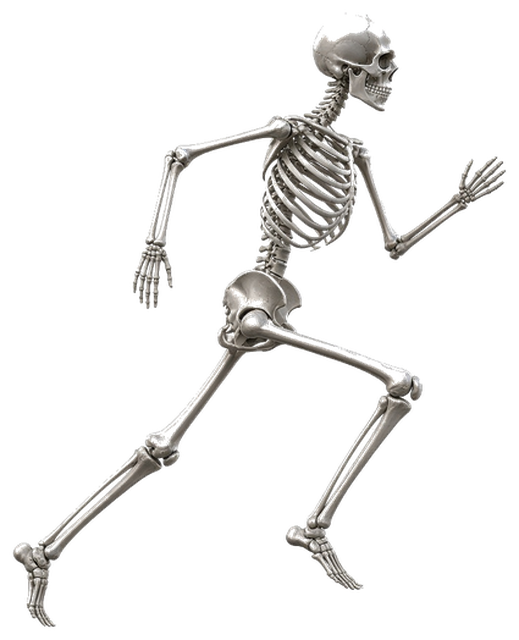
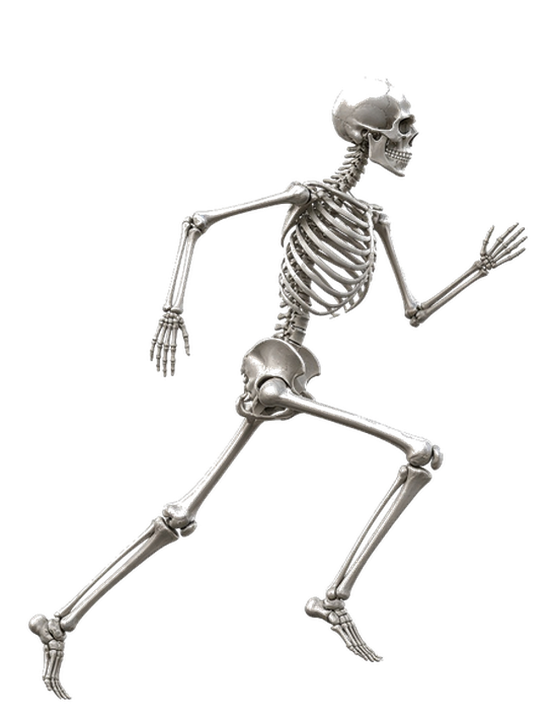
32.336: Leave headroom so the runner skull is not cropped.
The cranium stays inside the frame, above the stadium curve.

Changed region(s): [[0.0308, 0.0312, 0.9865, 1.0]]

diff --git a/frontend/public/index.html b/frontend/public/index.html
@@ -1,15 +1,15 @@
 <!DOCTYPE html>
 <html lang="en">
   <head>
-    <link rel="stylesheet" href="%PUBLIC_URL%/clinic_touch.css?v=32.335" />
-    <link rel="stylesheet" href="%PUBLIC_URL%/liquid_glass.css?v=32.335" />
+    <link rel="stylesheet" href="%PUBLIC_URL%/clinic_touch.css?v=32.336" />
+    <link rel="stylesheet" href="%PUBLIC_URL%/liquid_glass.css?v=32.336" />
     <meta charset="utf-8" />
     <link rel="icon" href="%PUBLIC_URL%/favicon.ico?v=32.86" sizes="any" />
     <link rel="icon" href="%PUBLIC_URL%/logo192.png?v=32.86" type="image/png" sizes="192x192" />
     <link rel="icon" href="%PUBLIC_URL%/favicon-32.png?v=32.86" type="image/png" sizes="32x32" />
     <meta name="viewport" content="width=device-width, initial-scale=1, viewport-fit=cover" />
     <meta http-equiv="Cache-Control" content="no-cache, no-store, must-revalidate" />
-    <meta name="nl-version" content="32.335" />
+    <meta name="nl-version" content="32.336" />
     <meta name="theme-color" content="#121820" media="(prefers-color-scheme: dark)" />
     <meta name="theme-color" content="#121820" />
     <style>html,body{margin:0;padding:0;background:#121820;color:#fff;color-scheme:dark;font-family:Inter,system-ui,sans-serif}#root{min-height:100vh}</style>
@@ -76,10 +76,10 @@
   <body>
     <noscript>You need to enable JavaScript to run this app.</noscript>
     <div id="root"><p style="padding:2rem;text-align:center;color:#fff9">Loading NeuroLab…</p></div>
-    <script src="%PUBLIC_URL%/pwa_ipad_sync.js?v=32.335"></script>
+    <script src="%PUBLIC_URL%/pwa_ipad_sync.js?v=32.336"></script>
     <script>
       (function () {
-        var href = "%PUBLIC_URL%/liquid_glass.css?v=32.335";
+        var href = "%PUBLIC_URL%/liquid_glass.css?v=32.336";
         function pin() {
           var el = document.getElementById("nl-liquid-glass-link");
           if (!el) {

diff --git a/frontend/src/labScrollGlass.test.js b/frontend/src/labScrollGlass.test.js
@@ -38,9 +38,9 @@ test("analysis stage capsule is muted glass and keeps the film-strip motion", ()
   expect(css).toMatch(/\.kin-analyze-stage__stepper/);
   expect(css).toMatch(/\.kin-analyze-stage__rail/);
   expect(css).toMatch(/\.kin-run__figure/);
-  expect(css).toMatch(/\.kin-run__figure[\s\S]*?width:\s*168px/);
-  expect(css).toMatch(/\.kin-run__figure[\s\S]*?height:\s*148px/);
-  expect(css).toMatch(/\.kin-run__stage[\s\S]*?height:\s*208px/);
+  expect(css).toMatch(/\.kin-run__figure[\s\S]*?width:\s*176px/);
+  expect(css).toMatch(/\.kin-run__figure[\s\S]*?height:\s*168px/);
+  expect(css).toMatch(/\.kin-run__stage[\s\S]*?height:\s*228px/);
   expect(css).not.toMatch(/\.kin-run__figure[\s\S]*?width:\s*86px/);
   expect(app).toMatch(/status === "analyzing"\) return `\$\{base\} overflow-visible/);
   expect(css).toMatch(/\.kin-run__ground/);
@@ -57,7 +57,7 @@ test("analysis stage capsule is muted glass and keeps the film-strip motion", ()
   expect(app).not.toMatch(/border border-dashed px-3 py-5/);
   expect(app).not.toMatch(/if \(hasResult\) return `\$\{base\} ring-1/);
   expect(overlay).toMatch(/\.kin-run__figure/);
-  expect(overlay).toMatch(/\.kin-run__figure[\s\S]*?width:\s*168px/);
+  expect(overlay).toMatch(/\.kin-run__figure[\s\S]*?width:\s*176px/);
   expect(overlay).toMatch(/\.glass-float:has\(\.kin-analyze-stage\)/);
   expect(overlay).toMatch(/overflow: visible !important/);
   expect(overlay).toMatch(/\.kin-run__ground/);

diff --git a/frontend/src/index.css b/frontend/src/index.css
@@ -687,15 +687,15 @@ html.nl-overlay-expanded .content-shell .glass-float.nl-overlay-escape:not(.sect
   position: relative;
   overflow: visible;
   width: 100%;
-  height: 208px;
+  height: 228px;
 }
 
 .kin-run__figure {
   position: absolute;
   left: 50%;
   bottom: 24px;
-  width: 168px;
-  height: 148px;
+  width: 176px;
+  height: 168px;
   opacity: 0;
   pointer-events: none;
   -webkit-touch-callout: none;

diff --git a/frontend/public/liquid_glass.css b/frontend/public/liquid_glass.css
@@ -224,14 +224,14 @@ html.nl-overlay-expanded.nl-touch .content-shell .glass-float:not(.validation-pl
   position: relative;
   overflow: visible;
   width: 100%;
-  height: 208px;
+  height: 228px;
 }
 .kin-run__figure {
   position: absolute;
   left: 50%;
   bottom: 24px;
-  width: 168px;
-  height: 148px;
+  width: 176px;
+  height: 168px;
   opacity: 0;
   pointer-events: none;
   -webkit-touch-callout: none;
